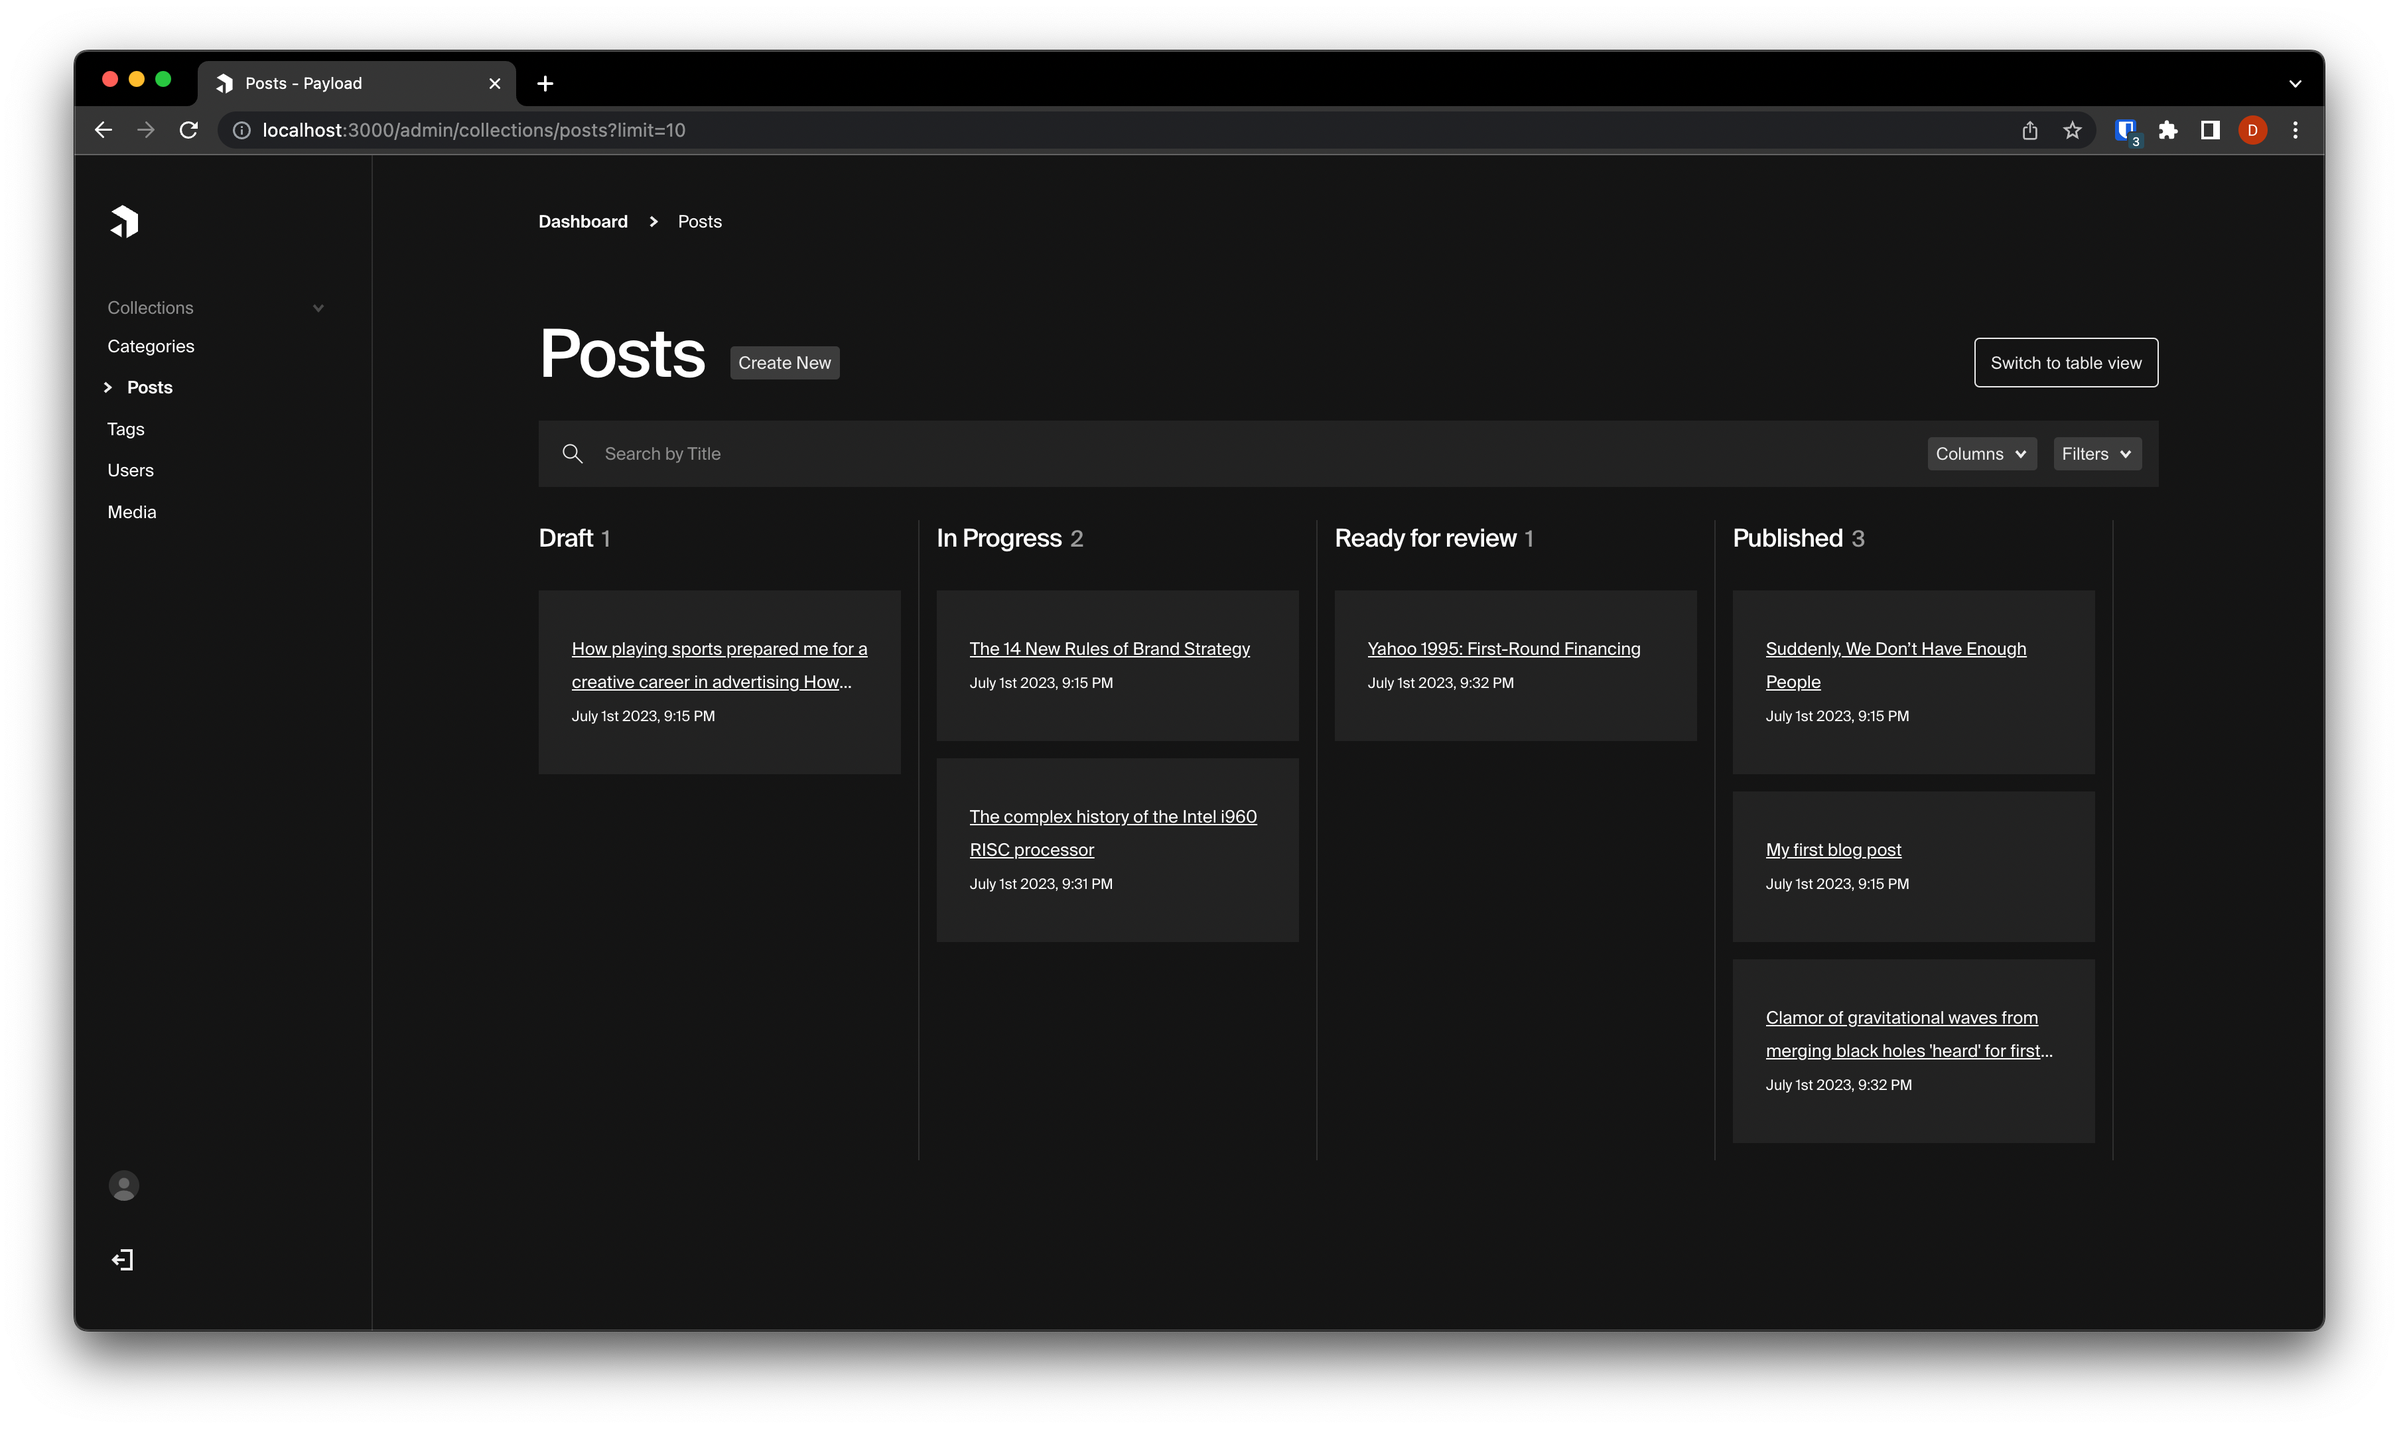
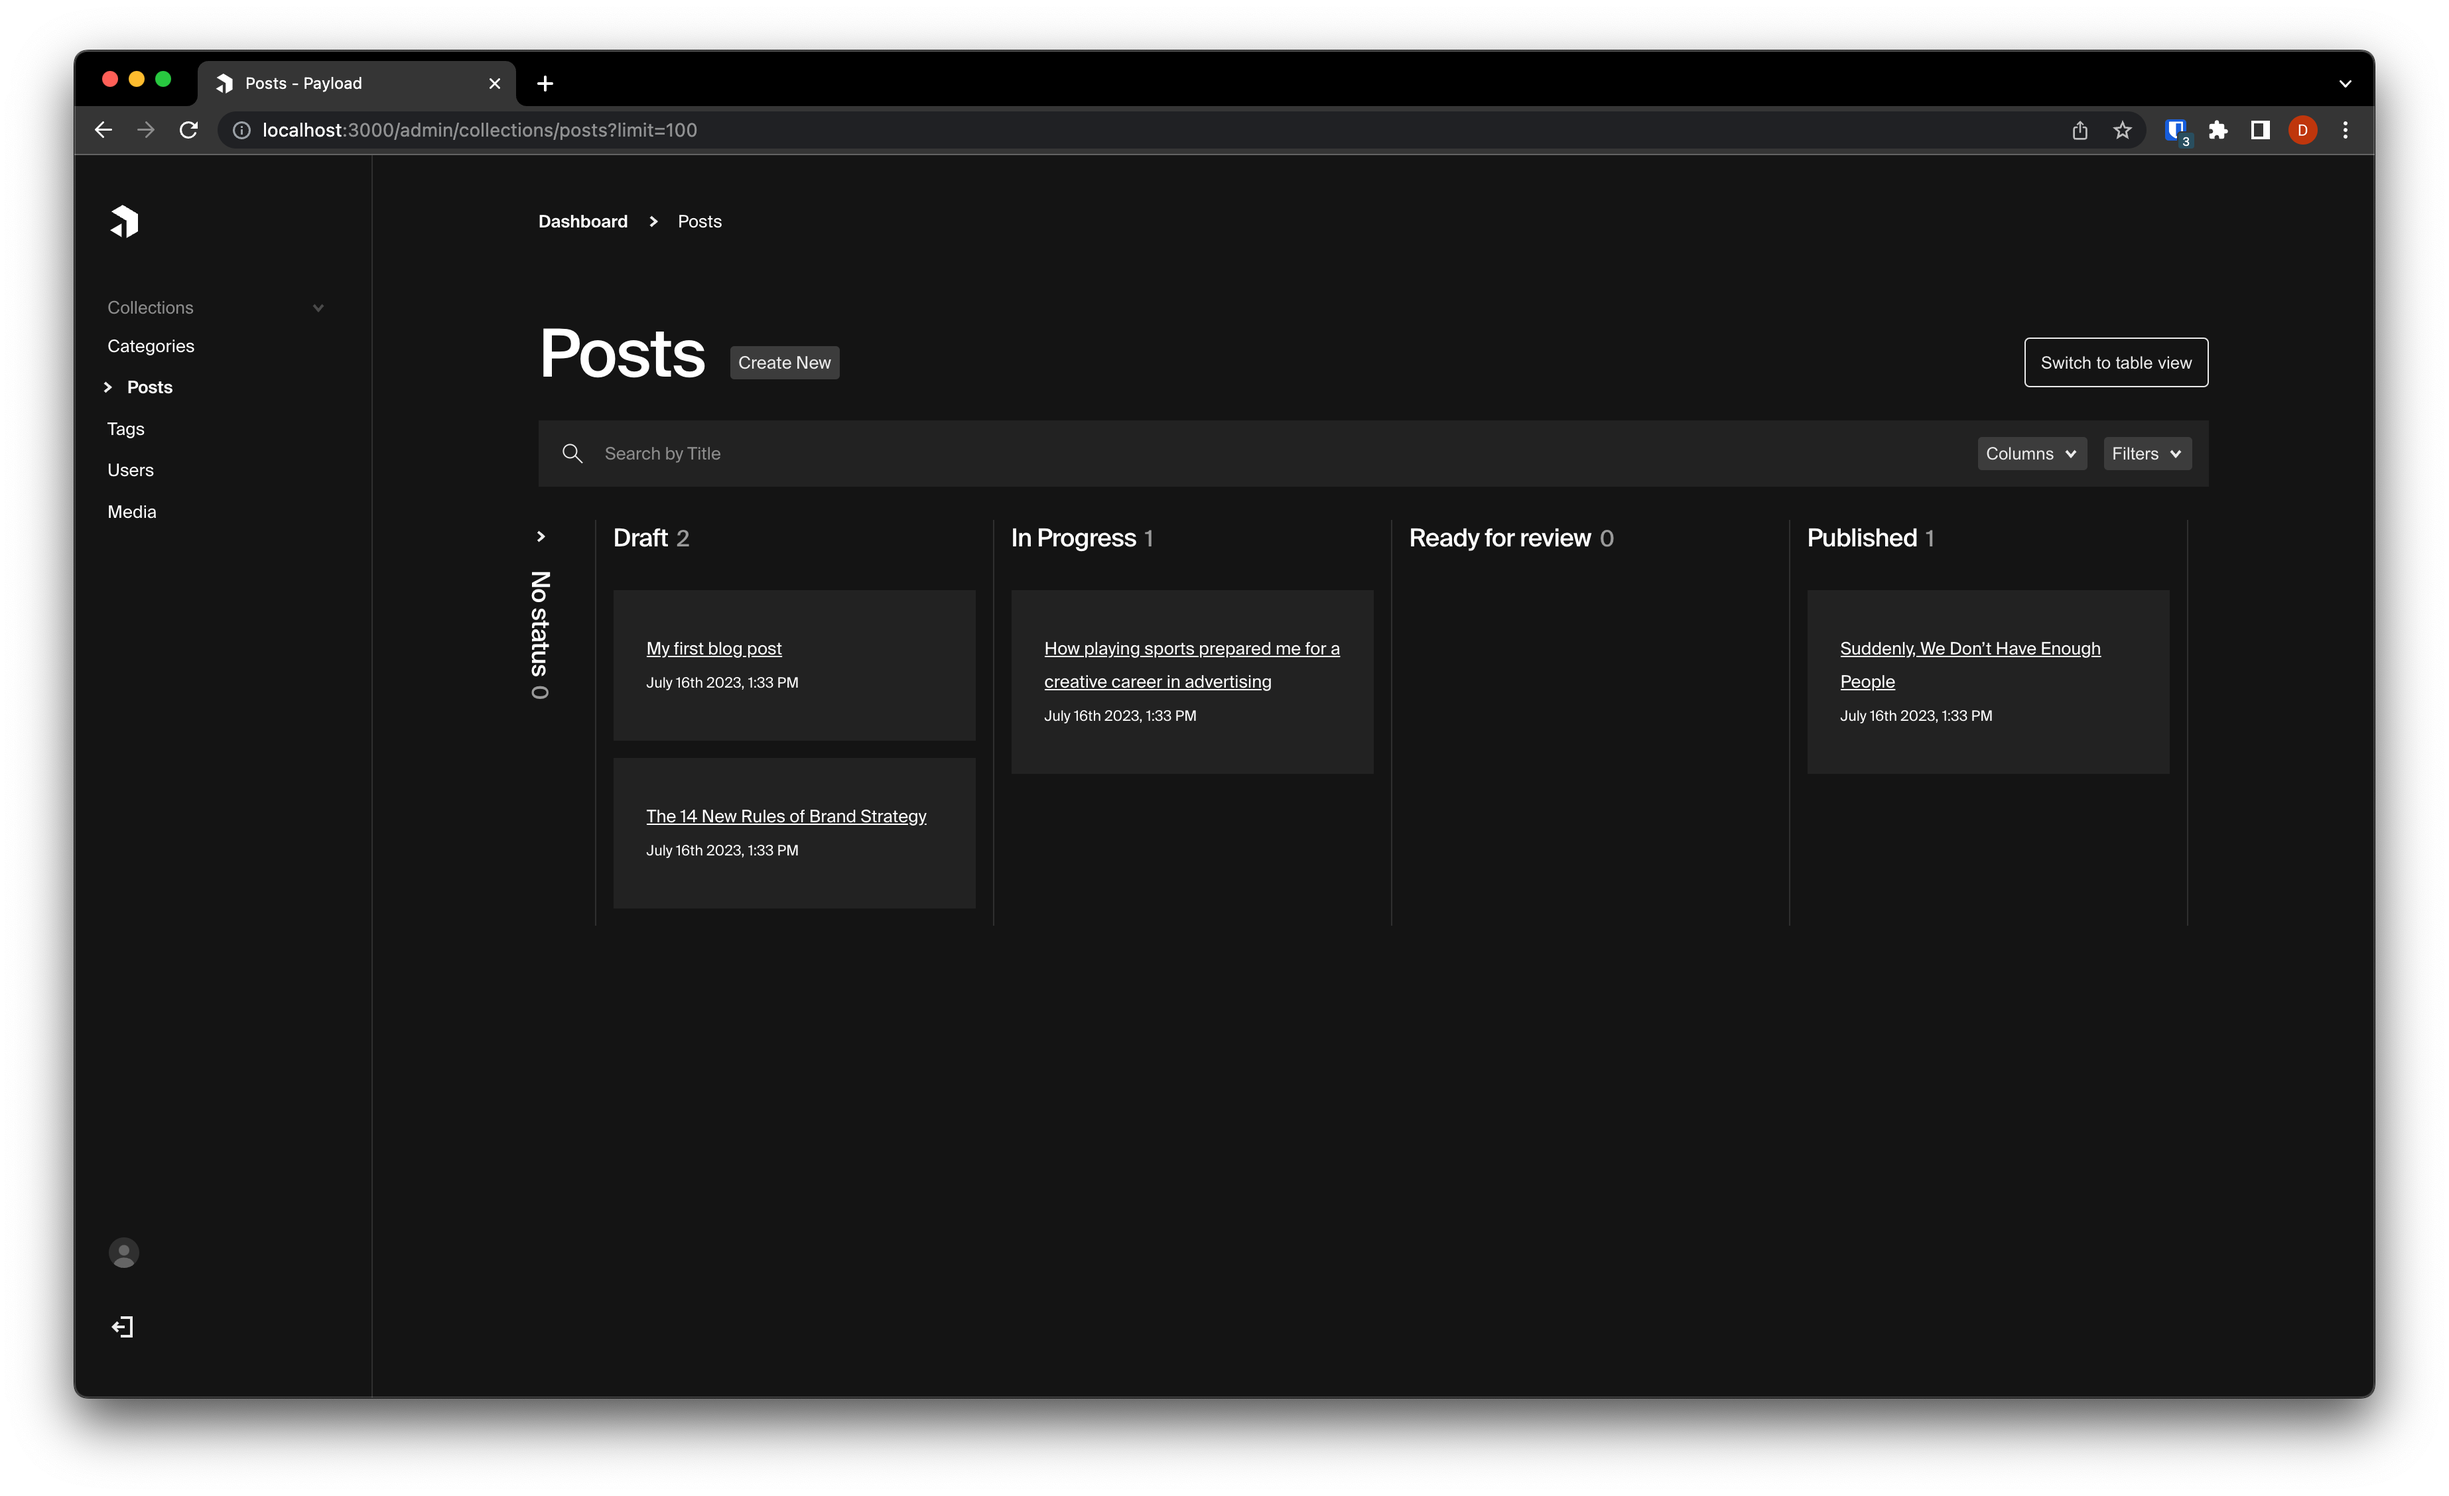
Upated readme and preview screenshot

diff --git a/dev/src/payload.config.ts b/dev/src/payload.config.ts
@@ -41,7 +41,8 @@ export default buildConfig({
           {value: 'ready-for-review', label: 'Ready for review'},
           {value: 'published', label: 'Published'},
         ],
-        defaultStatus: 'draft'
+        defaultStatus: 'draft',
+        hideNoStatusColumn: false
       }
     })
   ],

diff --git a/README.md b/README.md
@@ -25,7 +25,8 @@ const config = buildConfig({
           {value: 'ready-for-review', label: 'Ready for review'},
           {value: 'published', label: 'Published'},
         ],
-        defaultStatus: 'draft'
+        defaultStatus: 'draft',
+        hideNoStatusColumn: false
       }
     })
   ],
@@ -44,7 +45,7 @@ Upcoming Features / Ideas. Have a suggestion for the plugin? Feel free to open a
 
 - [ ] Customize card properties (currently displays `title` and `createdAt`)
 - [ ] Edit relationships directly from the card (e.g., assigning users to a document)
-- [ ] Toggleable column for posts without a workflow status (Currently, documents lacking `workflowStatus` aren't visible on the board)
+- [X] Toggleable column for posts without a workflow status (Currently, documents lacking `workflowStatus` aren't visible on the board)
 - [ ] Lazy loading of column contents when scrolling (Currently, board only shows `defaultLimit` amount of cards)
 - [ ] Permissions for changing statuses
 - [ ] Allowed transitions between statuses
